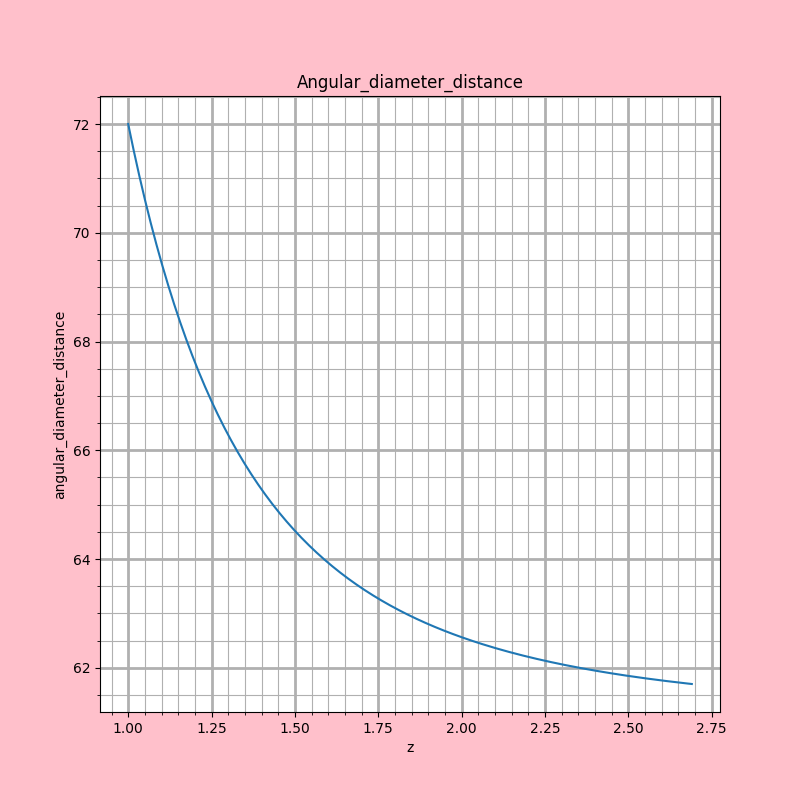
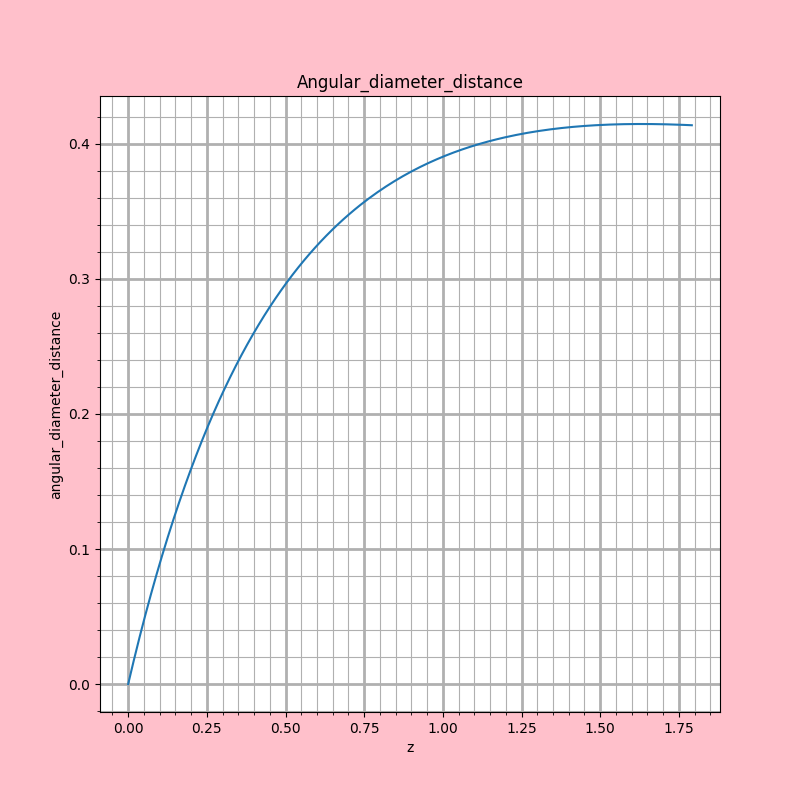
продолжаем

Changed region(s): [[0.0625, 0.125, 0.9062, 0.9375]]

diff --git a/modeling_module/physical_problems/cosmology/solver.py b/modeling_module/physical_problems/cosmology/solver.py
@@ -44,22 +44,25 @@ def Friedmann_eqs_2(ICS,a,eq):
 class Task_maker():
 
     def __init__(self, config):
-        self.config = config
 
-        self.omega_m = float(self.config.omega_m)
-        self.omega_r = float(self.config.omega_r)
-        self.z_max = float(self.config.z_max)
-        self.t_max = float(self.config.t_max)
-        self.H_0 = float(self.config.H_0)
+        self.name_SNE = config.name_SNE
+        self.name_Hubble = config.name_Hubble
+        self.plot_diagram_1 = config.task_1
+        self.plot_diagram_2 = config.task_2
+        self.plot_diagram_3 = config.task_3
+        self.plot_diagram_4 = config.task_4
+        self.plot_diagram_5 = config.task_5
+        self.plot_diagram_6 = config.task_6
+        self.plot_diagram_7 = config.task_7
+        self.plot_diagram_8 = config.task_8
+
         self.dark_components = []
         self.omega_d = []
-        self.name_SNE = self.config.name_SNE
-        self.name_Hubble = self.config.name_Hubble
-        self.row_SNE = [int(self.config.row_1),int(self.config.row_2),int(self.config.row_3)]
-        self.row_Hubble = [int(self.config.row_4),int(self.config.row_5),int(self.config.row_6)]
+        self.row_SNE = [int(config.row_1),int(config.row_2),int(config.row_3)]
+        self.row_Hubble = [int(config.row_4),int(config.row_5),int(config.row_6)]
 
-        if self.config.dark_components:
-            for compts in self.config.dark_components:
+        if config.dark_components:
+            for compts in config.dark_components:
                 if compts.equation_d:
                     self.dark_components.append((compts.equation_d))
                 if compts.omega_d:
@@ -83,28 +86,84 @@ class Cosmology_data():
 
 class Cosmology_calculus():
 
-    def __init__(self, Task, Data_1, Data_2):
-        self.omega_m = Task.omega_m
-        self.omega_r = Task.omega_r
+    def __init__(self, config, Task, Data_1, Data_2):
+        self.omega_m = float(config.omega_m)
+        self.omega_r = float(config.omega_r)
+        self.z_max = float(config.z_max)
+        self.t_max = float(config.t_max)/13.6*float(config.H_0)/70
         self.omega_d = Task.omega_d[0]
         self.redshifts_1 = Data_1.z0
         self.redshifts_2 = Data_2.z0
         self.EOS = sympify(Task.dark_components[0])
-        self.H_0 = Task.H_0
+        self.H_0 = float(config.H_0)
+
         self.mu_m = []
         self.H_m = []
         self.mu_i = []
         self.H_i = []
         self.z_i = []
+        self.t_i = []
+        self.T_i = []
         self.DA = []
-        self.mu_o = Data_1.parameter
-        self.H_o = Data_2.parameter
-        self.Zmax = Task.z_max
-        self.Tmax = Task.t_max/13.6
-        self.err_mu = Data_1.err
-        self.err_H = Data_2.err
         self.scale_factor = []
         self.HUBBLE = []
+        self.Omega_d = []
+        self.Omega_m = []
+        self.OMEGA_d = []
+        self.OMEGA_m = []
+
+        self.mu_o = Data_1.parameter
+        self.H_o = Data_2.parameter
+        self.err_mu = Data_1.err
+        self.err_H = Data_2.err
+
+    def mu_diagram(self):
+        DL = np.zeros(200)
+        dist = np.zeros(len(DL))
+        for i in range(len(DL)):
+            dist0=0
+            z = 0.0001 + self.z_max*i/200
+            a = 1/(z+1)
+            N = int((1-a)//0.01)
+            if N<2:
+                N=2
+            scale = np.linspace(1,a,N)
+            ICS = 0, 1, 3*self.omega_m, 3*self.omega_r, 3*self.omega_d
+            sol = odeint(Friedmann_eqs, ICS, scale, args = (self.EOS,))
+            for j in range(1,N):
+                #dist[i]=dist0 - (scale[j+1]-scale[j])/(sol[j,1]*scale[j]**2)
+                dist[i]=dist0 - 2*(sol[j,0]-sol[j-1,0])/(scale[j]+scale[j-1])
+                dist0 = dist[i]
+            DL[i] = (1+z)*dist[i]
+            self.H_i.append(self.H_0*sol[N-1,1])
+            self.t_i.append(sol[N-1,0]*13.6*self.H_0/70)
+            self.DA.append(DL[i]/(1+z)**2)
+            self.Omega_d.append(sol[N-1,2]/(3*sol[N-1,1]**2))
+            self.Omega_m.append(sol[N-1,4]/(3*sol[N-1,1]**2))
+            self.z_i.append(z)
+            self.mu_i.append(5*np.log10(DL[i])-5*np.log10(self.H_0/100)+43.16-0.713)
+
+    def integration(self):
+        for i in range(201):
+            t = 0.000 + self.t_max*i/200
+            times = np.linspace(0,t,2)
+            ICS = 1, 1, 3*self.omega_m,3*self.omega_r, 3*self.omega_d
+            sol = odeint(Friedmann_eqs_2, ICS, times, args = (self.EOS,))
+            self.scale_factor.append(sol[1,0])
+            self.T_i.append(t*13.6*70/self.H_0)
+            self.OMEGA_d.append(sol[1,4]/(3*sol[1,1]**2))
+            self.OMEGA_m.append(sol[1,2]/(3*sol[1,1]**2))
+            self.HUBBLE.append(sol[1,1]*self.H_0)
+
+    def hubble_versus_z(self):
+        z = np.zeros(len(self.redshifts_2))
+        for i in range(len(z)):
+            a = 1/(self.redshifts_2[i]+1)
+            N=2
+            scale = np.linspace(1,a,N)
+            ICS = 0, 1, 3*self.omega_m, 3*self.omega_r, 3*self.omega_d
+            sol = odeint(Friedmann_eqs, ICS, scale, args = (self.EOS,))
+            self.H_m.append(sol[N-1,1])
 
     def mu_versus_z(self):
         DL = np.zeros(len(self.redshifts_1))
@@ -125,82 +184,112 @@ class Cosmology_calculus():
             DL[i] = (1+self.redshifts_1[i])*dist[i]
             self.mu_m.append(5*np.log10(DL[i]))
 
-    def mu_diagram(self):
-        DL = np.zeros(200)
-        dist = np.zeros(len(DL))
-        for i in range(len(DL)):
-            dist0=0
-            z = 0.0001 + self.Zmax*i/200
-            a = 1/(z+1)
-            N = int((1-a)//0.01)
-            if N<2:
-                N=2
-            scale = np.linspace(1,a,N)
-            ICS = 0, 1, 3*self.omega_m, 3*self.omega_r, 3*self.omega_d
-            sol = odeint(Friedmann_eqs, ICS, scale, args = (self.EOS,))
-            for j in range(1,N):
-                #dist[i]=dist0 - (scale[j+1]-scale[j])/(sol[j,1]*scale[j]**2)
-                dist[i]=dist0 - 2*(sol[j,0]-sol[j-1,0])/(scale[j]+scale[j-1])
-                dist0 = dist[i]
-            self.H_i.append(self.H_0*sol[N-1,1])
-            DL[i] = (1+z)*dist[i]
-            self.DA.append(DL[i]/(1+z)**2)
-            self.z_i.append(z)
-            self.mu_i.append(5*np.log10(DL[i])-5*np.log10(self.H_0/100)+43.16-0.713)
+    def visualization(self, Task):
 
-    def integration(self):
-        for i in range(201):
-            t = 0.000 + self.Tmax*i/200
-            times = np.linspace(0,t,2)
-            ICS = 1, 1, 3*self.omega_m, 3*self.omega_r, 3*self.omega_d
-            sol = odeint(Friedmann_eqs_2, ICS, times, args = (self.EOS,))
-            self.scale_factor.append(sol[1,0])
-            self.HUBBLE.append(sol[1,1]*self.H_0)
+        if Task.plot_diagram_1 == True:
 
-    def hubble_versus_z(self):
-        z = np.zeros(len(self.redshifts_2))
-        for i in range(len(z)):
-            a = 1/(self.redshifts_2[i]+1)
-            N=2
-            scale = np.linspace(1,a,N)
-            ICS = 0, 1, 3*self.omega_m, 3*self.omega_r, 3*self.omega_d
-            sol = odeint(Friedmann_eqs, ICS, scale, args = (self.EOS,))
-            self.H_m.append(sol[N-1,1])
+            fig = plt.figure(figsize=(8,8), facecolor='pink', frameon=True)
+            ax = fig.add_subplot(111)
+            ax.plot(self.z_i,self.mu_i)
+            ax.errorbar(self.redshifts_1,self.mu_o, yerr=self.err_mu, fmt=".")
+            ax.minorticks_on()
+            ax.set_title('SNe_Ia_magnitude_vs_redshift_diagram')
+            ax.set_xlabel('z')
+            ax.set_ylabel('apparent_magnitude')
+            ax.grid(which='major',linewidth = 2)
+            ax.grid(which='minor')
+            fig.savefig(path + 'results/SNe_Ia')
 
-    def visualization(self):
-        fig = plt.figure(figsize=(8,8), facecolor='pink', frameon=True)
-        ax = fig.add_subplot(111)
-        fig2 = plt.figure(figsize=(8,8), facecolor='pink', frameon=True)
-        ax2 = fig2.add_subplot(111)
-        fig3 = plt.figure(figsize=(8,8), facecolor='pink', frameon=True)
-        ax3 = fig3.add_subplot(111)
+        if Task.plot_diagram_2 == True:
 
-        ax.plot(self.z_i,self.mu_i)
-        ax.errorbar(self.redshifts_1,self.mu_o, yerr=self.err_mu, fmt=".")
+            fig2 = plt.figure(figsize=(8,8), facecolor='pink', frameon=True)
+            ax2 = fig2.add_subplot(111)
+            ax2.plot(self.z_i,self.H_i)
+            ax2.errorbar(self.redshifts_2,self.H_o, yerr=self.err_H,fmt=".")
+            ax2.minorticks_on()
+            ax2.set_title('Hubble_parameter_vs_redshift')
+            ax2.set_xlabel('z')
+            ax2.set_ylabel('H, km/s/Mpc')
+            ax2.grid(which='major',linewidth = 2)
+            ax2.grid(which='minor')
+            fig2.savefig(path + 'results/H(z)')
 
-        ax.minorticks_on()
-        ax.set_title('SNe_Ia_magnitude_vs_redshift_diagram')
-        ax.set_xlabel('z')
-        ax.set_ylabel('apparent_magnitude')
-        ax.grid(which='major',linewidth = 2)
-        ax.grid(which='minor')
-        fig.savefig(path + 'results/SNe_Ia')
+        if Task.plot_diagram_3 == True:
 
-        ax2.plot(self.z_i,self.H_i)
-        ax2.errorbar(self.redshifts_2,self.H_o, yerr=self.err_H,fmt=".")
-        ax2.minorticks_on()
-        ax2.set_title('Hubble_parameter_vs_redshift')
-        ax2.set_xlabel('z')
-        ax2.set_ylabel('H, km/s/Mpc')
-        ax2.grid(which='major',linewidth = 2)
-        ax2.grid(which='minor')
-        fig2.savefig(path + 'results/H(z)')
+            fig3 = plt.figure(figsize=(8,8), facecolor='pink', frameon=True)
+            ax3 = fig3.add_subplot(111)
+            ax3.plot(self.z_i,self.t_i)
+            ax3.minorticks_on()
+            ax3.set_title('time_vs_redshift')
+            ax3.set_xlabel('z')
+            ax3.set_ylabel('t, Gyr')
+            ax3.grid(which='major',linewidth = 2)
+            ax3.grid(which='minor')
+            fig3.savefig(path + 'results/Backlook_time')
 
-        ax3.plot(self.scale_factor,self.HUBBLE)
-        ax3.minorticks_on()
-        ax3.set_title('Angular_diameter_distance')
-        ax3.set_xlabel('z')
-        ax3.set_ylabel('angular_diameter_distance')
-        ax3.grid(which='major',linewidth = 2)
-        ax3.grid(which='minor')
-        fig3.savefig(path + 'results/DA(z)')
+        if Task.plot_diagram_4 == True:
+
+            fig5 = plt.figure(figsize=(8,8), facecolor='pink', frameon=True)
+            ax5 = fig5.add_subplot(111)
+            ax5.plot(self.T_i,self.scale_factor)
+            ax5.minorticks_on()
+            ax5.set_title('scale_factor_in_future')
+            ax5.set_xlabel('t, Gyr')
+            ax5.set_ylabel('a')
+            ax5.grid(which='major',linewidth = 2)
+            ax5.grid(which='minor')
+            fig5.savefig(path + 'results/a(t)')
+
+        if Task.plot_diagram_5 == True:
+
+            fig4 = plt.figure(figsize=(8,8), facecolor='pink', frameon=True)
+            ax4 = fig4.add_subplot(111)
+            ax4.plot(self.T_i,self.HUBBLE)
+            ax4.minorticks_on()
+            ax4.set_title('Hubble_parameter_in_future')
+            ax4.set_xlabel('t, Gyr')
+            ax4.set_ylabel('H, km/s/Mpc')
+            ax4.grid(which='major',linewidth = 2)
+            ax4.grid(which='minor')
+            fig4.savefig(path + 'results/H(t)')
+
+        if Task.plot_diagram_6 == True:
+
+            fig5 = plt.figure(figsize=(8,8), facecolor='pink', frameon=True)
+            ax5 = fig5.add_subplot(111)
+            ax5.plot(self.z_i,self.Omega_d)
+            ax5.plot(self.z_i,self.Omega_m)
+            ax5.minorticks_on()
+            ax5.set_title('Fraction_of_densities_in_past')
+            ax5.set_xlabel('z')
+            ax5.set_ylabel('Omega_d, Omega_m')
+            ax5.grid(which='major',linewidth = 2)
+            ax5.grid(which='minor')
+            fig5.savefig(path + 'results/Omega_in_past')
+
+        if Task.plot_diagram_7 == True:
+
+            fig5 = plt.figure(figsize=(8,8), facecolor='pink', frameon=True)
+            ax5 = fig5.add_subplot(111)
+            ax5.plot(self.T_i,self.OMEGA_d)
+            ax5.plot(self.T_i,self.OMEGA_m)
+            ax5.minorticks_on()
+            ax5.set_title('Fraction_of_densities_in_past')
+            ax5.set_xlabel('t, Gyr')
+            ax5.set_ylabel('Omega')
+            ax5.grid(which='major',linewidth = 2)
+            ax5.grid(which='minor')
+            fig5.savefig(path + 'results/Omega_in_future')
+
+        if Task.plot_diagram_7 == True:
+
+            fig4 = plt.figure(figsize=(8,8), facecolor='pink', frameon=True)
+            ax4 = fig4.add_subplot(111)
+            ax4.plot(self.z_i,self.DA)
+            ax4.minorticks_on()
+            ax4.set_title('Angular_diameter_distance')
+            ax4.set_xlabel('z')
+            ax4.set_ylabel('angular_diameter_distance')
+            ax4.grid(which='major',linewidth = 2)
+            ax4.grid(which='minor')
+            fig4.savefig(path + 'results/DA(z)')

diff --git a/modeling_module/physical_problems/cosmology/__init__.py b/modeling_module/physical_problems/cosmology/__init__.py
@@ -20,21 +20,21 @@ class Model:
 	def init(self, config, output, job):
 
 
-		Task = Task_maker(config)
+		self.Task = Task_maker(config)
 		# saving current problem model with incomming parameters
 
-		self.model_SNE = Cosmology_data(Task.name_SNE, Task.row_SNE)
-		self.model_H = Cosmology_data(Task.name_Hubble, Task.row_Hubble)
+		self.model_SNE = Cosmology_data(self.Task.name_SNE, self.Task.row_SNE)
+		self.model_H = Cosmology_data(self.Task.name_Hubble, self.Task.row_Hubble)
 		self.model_SNE.Data_loader()
 		self.model_H.Data_loader()
-		self.calculations = Cosmology_calculus(Task, self.model_SNE, self.model_H)
+		self.calculations = Cosmology_calculus(config, self.Task, self.model_SNE, self.model_H)
 
 	# run method
 	# must ALWAYS return path to rendered file
 	def run(self):
 		self.calculations.mu_diagram()
 		self.calculations.integration()
-		self.calculations.visualization()
+		self.calculations.visualization(self.Task)
 
 		# render file and return path
 		return 1
